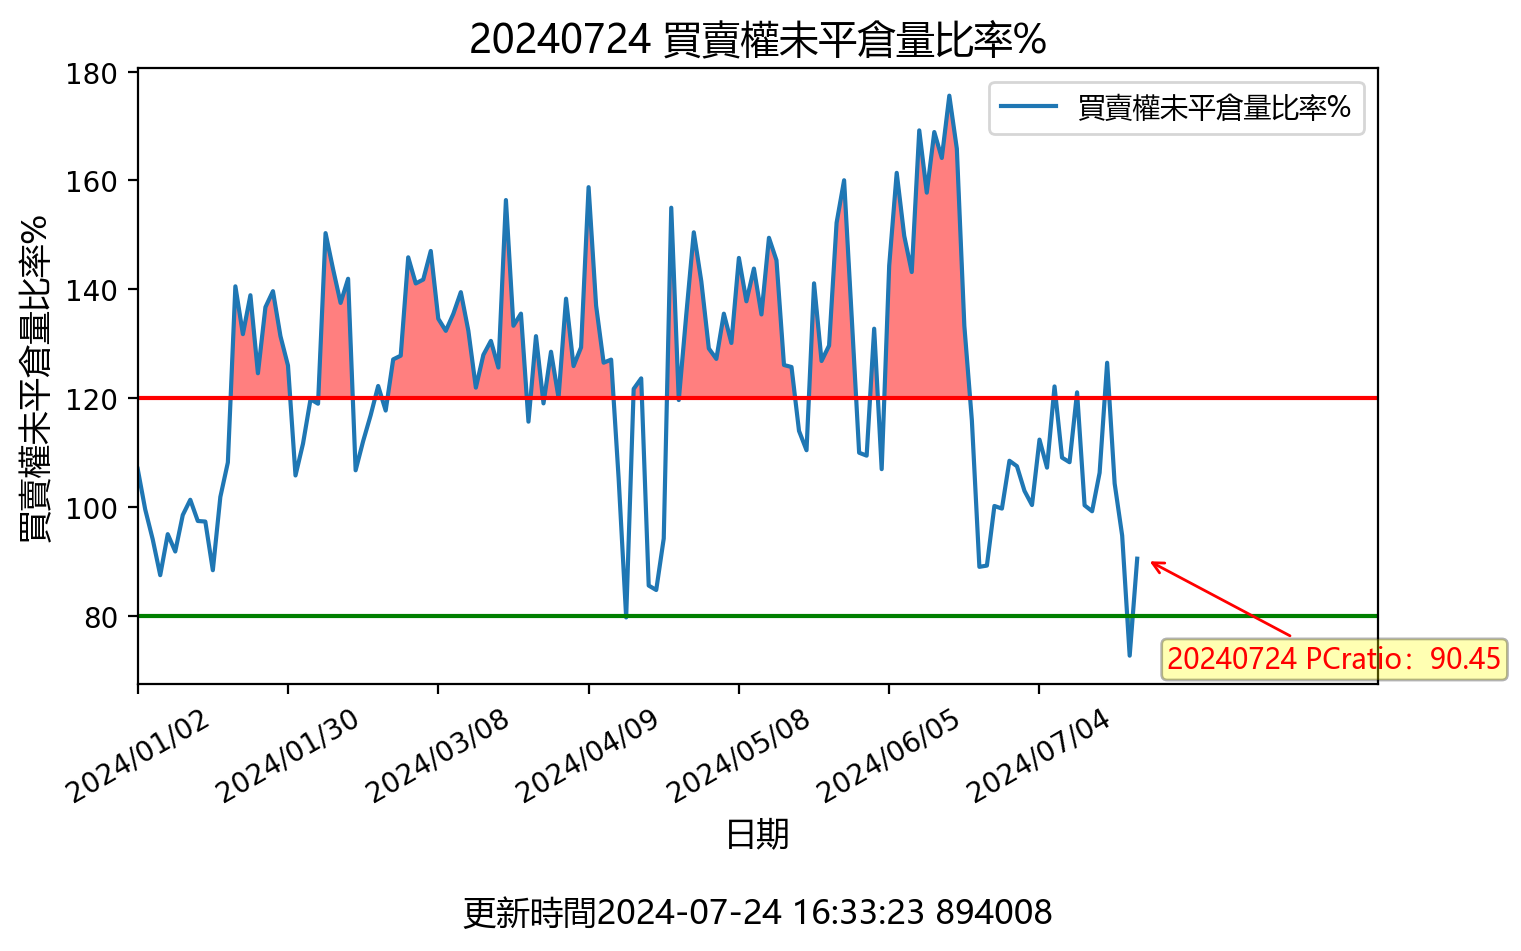
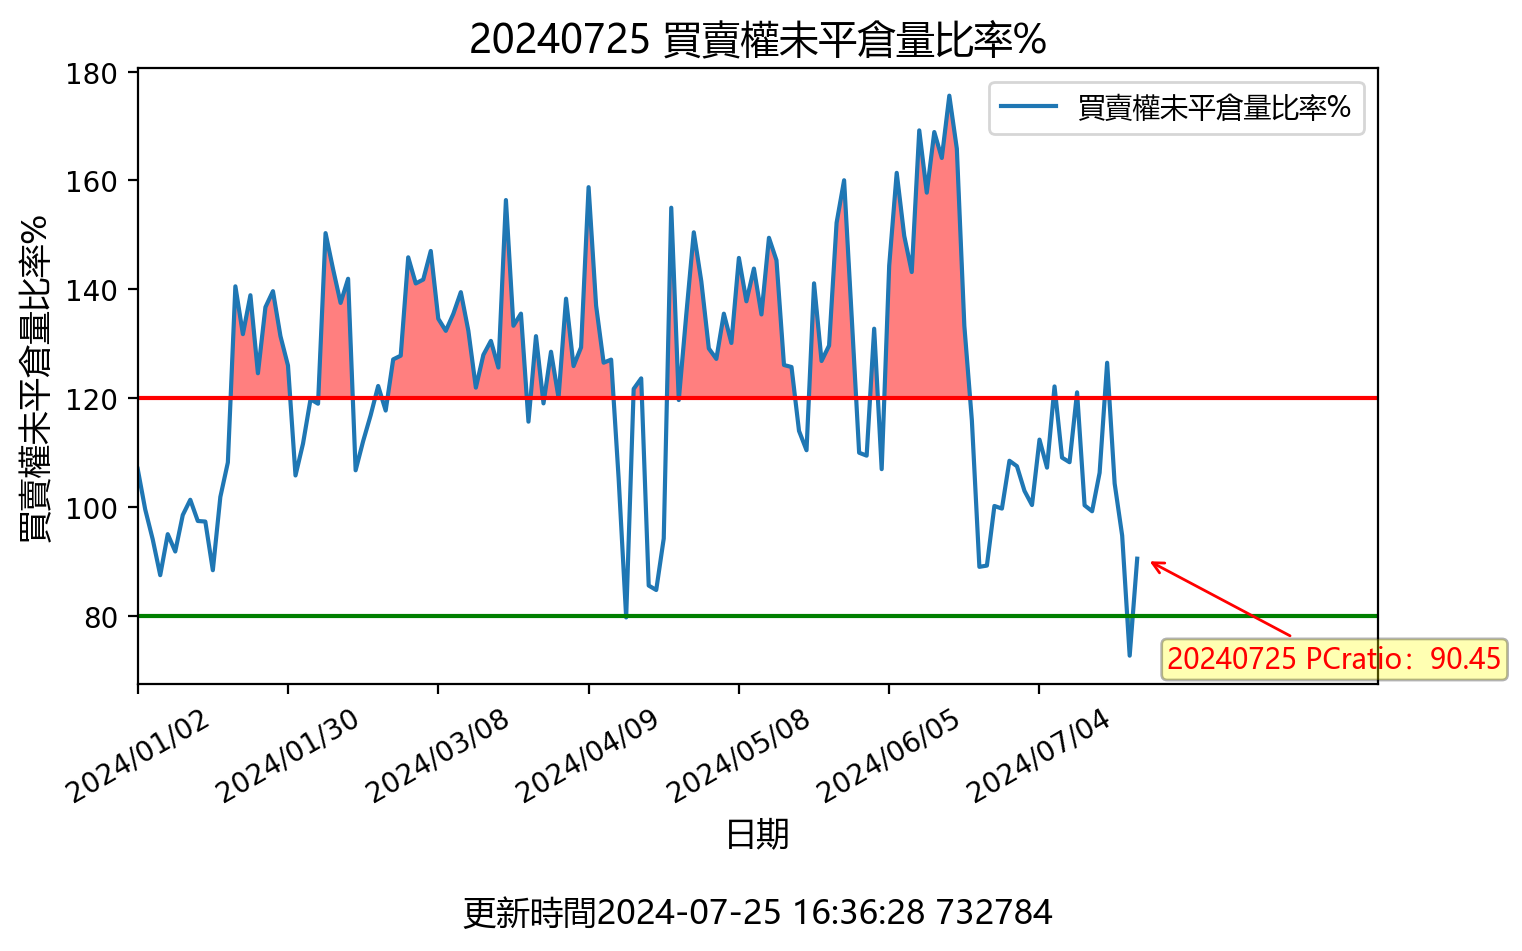
更新時間: Thu Jul 25 16:36:46 CST 2024

diff --git a/README.md b/README.md
@@ -1,12 +1,12 @@
-## 20240724 台指期「預估換倉成本」
+## 20240725 台指期「預估換倉成本」
 ![](images/txfcost.png)
 
-## 20240724 台指期「散戶小台多空比」
+## 20240725 台指期「散戶小台多空比」
 ![](images/bbiri.png)
 
-## 20240724 台指選擇權「Put/Call Ratios」
+## 20240725 台指選擇權「Put/Call Ratios」
 ![](images/pcratio.png)
 
-## 20240724 台指期「大額交易人」
+## 20240725 台指期「大額交易人」
 ![](images/blocktrade.png)
 
